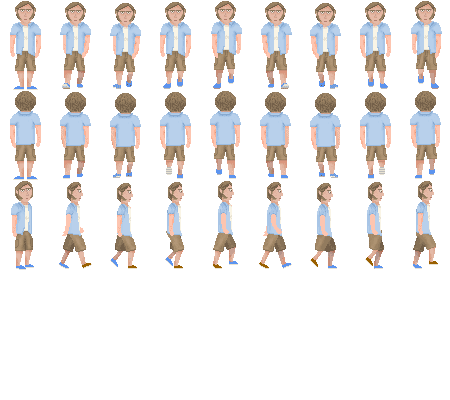
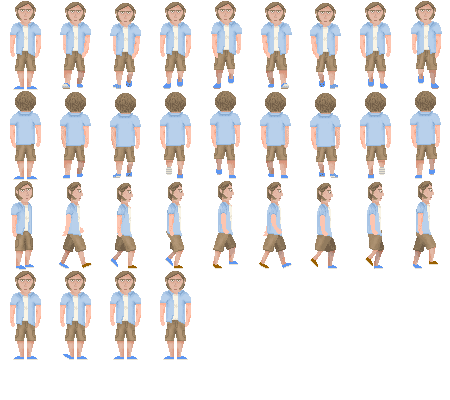
Added Hotelier to Hotel

Changed region(s): [[0.1244, 0.66, 0.3111, 0.9], [0.3422, 0.66, 0.4356, 0.9], [0.0, 0.66, 0.0933, 0.9]]

diff --git a/js/game.js b/js/game.js
@@ -711,7 +711,7 @@ var MYGAME = (function($) {
 						r = MYGAME.rooms,
 						e = MYGAME.entities;
 					var saveObj = JSON.stringify([s,p,i,r,e]);
-//					console.log(saveObj);
+					//console.log(saveObj);
 					// Save:
 					var prefix = (type === 'auto') ? '[Autosave] ' : '[Usersave] ';
 					var d = new Date();
@@ -943,9 +943,10 @@ var MYGAME = (function($) {
 		this.descriptions = options.descriptions || null;
 		this.onExamine = options.onExamine || null;
 		this.uses = options.uses || null;
+		this.subparts = options.subparts || [];
 
-		this.createHTML();	// Sets up the jqDomNode, adds classes, css, etc.
-
+		this.createHTML();	// Sets up the jqDomNode, adds classes, css, subparts, etc.
+		
 		// Store by id in entities hash:
 		MYGAME.entities[this.id] = this;
 		MYGAME.rooms.current.entities[this.id] = this;	// WHICH ONE SHALL I USE DEFINITIVELY?
@@ -962,10 +963,16 @@ var MYGAME = (function($) {
 		// Set a class if not clickable:
 		if (this.clickable === false) { this.jqDomNode.addClass("dead"); }
 		// Set a non-default width & height, if defined:
-		if (this.width) {this.jqDomNode.css("width", this.width);}
-		if (this.height) {this.jqDomNode.css("height", this.height);}
+		if (this.width) { this.jqDomNode.css("width", this.width); }
+		if (this.height) { this.jqDomNode.css("height", this.height); }
+		// Add all requested subparts:
+		while (this.subparts.length > 0) { this.addSubpart(this.subparts.pop()); }
 		// Set visibility:
 		if (!this.visible) { this.jqDomNode.hide(); }
+		
+		// Fill remaining properties:
+		this.width = this.jqDomNode.width;
+		this.height = this.jqDomNode.height;
 
 		return this;
 	};
@@ -1200,6 +1207,8 @@ var MYGAME = (function($) {
 		this.giveable = true;
 //		this.anchorOffset = [16,44];	// corrects for 32x48 sprite
 //		this.anchorOffsetDefault = [16,44];
+		this.facing = options.facing || 'ss';
+		this.face(this.facing);
 		this.textColour = options.colour || 'black';
 		this.convos = options.convos || null;
 		this.talksCtr = 0;
@@ -1271,6 +1280,7 @@ var MYGAME = (function($) {
 			else if (angle < -45 && angle > -135) { dir = 'nn'; }
 			else if (angle > 135 || angle < -135) { dir = 'ww'; }
 		}
+		this.facing = dir;
 		// Give owner the correct class:
 		this.jqDomNode.removeClass("nn ee ss ww").addClass(dir);
 
@@ -1411,8 +1421,6 @@ var MYGAME = (function($) {
 	*/
 	function Player(options) {	// (id, name, colour, visible)
 		Character.call(this, options);
-		// HTML:
-		this.addSubpart("eyes").addSubpart("mouth");
 
 		// Player-specific properties:
 		this.inventory = [];			// Hash of inventory item ids
@@ -1427,16 +1435,29 @@ var MYGAME = (function($) {
 			// Eyes idle animation:
 			if (this.animationState == 'idle' && this.jqDomNode.hasClass('ss')) {
 				var $eyes = this.jqDomNode.find(".eyes");
-				if (Math.random() > 0.7) {
+				if (Math.random() > 0.75) {
 					console.log('blink eyes');
 					$eyes.addClass('blink');
 					setTimeout(function() { $eyes.removeClass('blink') }, 1500);
 				}
-				else if (Math.random() > 0.7) {
+				else if (Math.random() > 0.67) {
 					console.log('shifty eyes');
 					$eyes.addClass('shifty');
 					setTimeout(function() { $eyes.removeClass('shifty') }, 2000);
 				}
+				// Foot tap animation:
+				else if (Math.random() > 0.5) {
+					console.log('foot tap');
+					this.jqDomNode.addClass('anim-foot-tap');
+					setTimeout(function() { this.jqDomNode.removeClass('anim-foot-tap') }.bind(this), 2000);
+				}
+				// Breath animation:
+				else if (Math.random() > 0.25) {
+					console.log('breathe');
+					this.jqDomNode.addClass('anim-deep-breath');
+					setTimeout(function() { this.jqDomNode.removeClass('anim-deep-breath') }.bind(this), 2000);
+				}
+				else console.log("player noop");
 			}
 		}.bind(this), 5000)	// runs on loop for the entire life of the player object
 	}
@@ -1678,6 +1699,7 @@ var MYGAME = (function($) {
 				id: "player",
 				name: "Hero Guy",
 				colour: "#96c",
+				subparts: ["eyes", "mouth"],
 				visible: false		// invisible until placed via Room.spawnPlayer()
 			});
 			_createDroppables();

diff --git a/css/characters.css b/css/characters.css
@@ -79,8 +79,8 @@
 
 
 /* SUB-SPRITES */
-.ss .mouth {
-	width: 7px;
+#player.ss .mouth {
+	width: 6px;
 	height: 4px;
 	position: absolute;
 	top: 37px;
@@ -88,14 +88,7 @@
 	background-image: url(../img/characters/FaceParts_2x.png);
 	background-position: -24px 0px;
 }
-.ss.talking .mouth { animation: mouth-talk 0.7s steps(7, start) infinite alternate; }
-
-@keyframes mouth-talk {
-	from { background-position: -24px 0px; }
-	to   { background-position: -24px -42px; }
-}
-
-.ss .eyes {
+#player.ss .eyes {
 	width: 18px;
 	height: 6px;
 	position: absolute;
@@ -104,17 +97,20 @@
 	background-image: url(../img/characters/FaceParts_2x.png);
 	background-position: 0px 0px;
 }
-.ss .eyes.flickleft  { animation: eyes-flick-left 1s steps(1, start) 1; }
-.ss .eyes.flickright { animation: eyes-flick-right 1s steps(1, start) 1; }
-.ss .eyes.shifty { animation: eyes-shifty 2s steps(1, start) 1; }
-.ss .eyes.blink { animation: eyes-blink 0.5s steps(1, start) 1; }
+#player.ss .eyes.flickleft  { animation: eyes-flick-left 1s steps(1, start) 1; }
+#player.ss .eyes.flickright { animation: eyes-flick-right 1s steps(1, start) 1; }
+#player.ss .eyes.shifty { animation: eyes-shifty 2s steps(1, start) 1; }
+#player.ss .eyes.blink { animation: eyes-blink 0.5s steps(1, start) 1; }
+#player.ss.anim-foot-tap { animation: foot-tap 0.5s steps(1, start) 3; }
+#player.ss.anim-deep-breath { animation: deep-breath 1s steps(1, start) 1; }
+#player.ss.talking .mouth { animation: mouth-talk 0.7s steps(7, start) infinite alternate; }
 
 @keyframes eyes-flick-left {
-	0%,100% { background-position: 0px 0px; }
+	0%,100% { background-position: 0px 0px; } /* default */
 	50%  { background-position: 0px -10px; } /* left */
 }
 @keyframes eyes-flick-right {
-	0%,100% { background-position: 0px 0px; }
+	0%,100% { background-position: 0px 0px; } /* default */
 	50%  { background-position: 0px -20px; } /* right */
 }
 @keyframes eyes-shifty {
@@ -126,4 +122,64 @@
 @keyframes eyes-blink {
 	0%,100% { background-position: 0px 0px; } /* default */
 	50%  { background-position: 0px -40px; } /* closed */
+}
+@keyframes foot-tap {
+	0%,100% { background-position: 0px -720px; } /* default */
+	50% { background-position: -100px -720px; } /* foot up */	
+}
+@keyframes deep-breath {
+	0%,100% { background-position: 0px -720px; }    /* default */
+	10%  { background-position: -200px -720px; } /* half breath */
+	20%,40%,60%,80% { background-position: -300px -720px; } /* full breath */
+	
+}
+@keyframes mouth-talk {
+	0%   { background-position: -24px 0px; }
+	100% { background-position: -24px -42px; }
+}
+
+
+#hotelier {
+	width: 100px;
+	height: 180px;
+	position: absolute;
+	z-index: 1;
+	background: url(../img/characters/HotelierAnim_2x.png);
+	pointer-events: none;
+	-o-transform-origin: bottom center;
+	-webkit-transform-origin: bottom center;
+	-ms-transform-origin: bottom center;
+	transform-origin: bottom center;	
+}
+#hotelier.ss { background-position: 0 0; }
+#hotelier.nn { background-position: 0 -180px; }
+#hotelier.ee { background-position: 0 -360px; }
+#hotelier.ww { background-position: 0 -540px; }
+
+#hotelier.ss .mouth {
+	width: 7px;
+	height: 4px;
+	position: absolute;
+	top: 38px;
+	left: 46px;
+	background-image: url(../img/characters/FaceParts_2x.png);
+	background-position: -56px 0px;
+}
+#hotelier.ss .eyes {
+	width: 16px;
+	height: 4px;
+	position: absolute;
+	top: 22px;
+	left: 42px;
+	background-image: url(../img/characters/FaceParts_2x.png);
+	background-position: -35px 0px;
+}
+#hotelier.ss .brows {
+	width: 16px;
+	height: 6px;
+	position: absolute;
+	top: 16px;
+	left: 42px;
+	background-image: url(../img/characters/FaceParts_2x.png);
+	background-position: -70px 0px;
 }

diff --git a/js/room5.js b/js/room5.js
@@ -50,6 +50,15 @@ var MYGAME = MYGAME || {};	// "get it or set it"
 		visible: true,
 		active: true
 	}).placeAt([930,0]);
+	
+	// NPCs:
+	var hotelier = new M.Character({
+		id: "hotelier",
+		name: "Hotel Manager",
+		colour: "red",
+		subparts: ["eyes", "mouth", "brows"],
+		facing: "nn"
+	}).placeAt([500,120]);
 
 	console.log("All objects initialised.");
 
